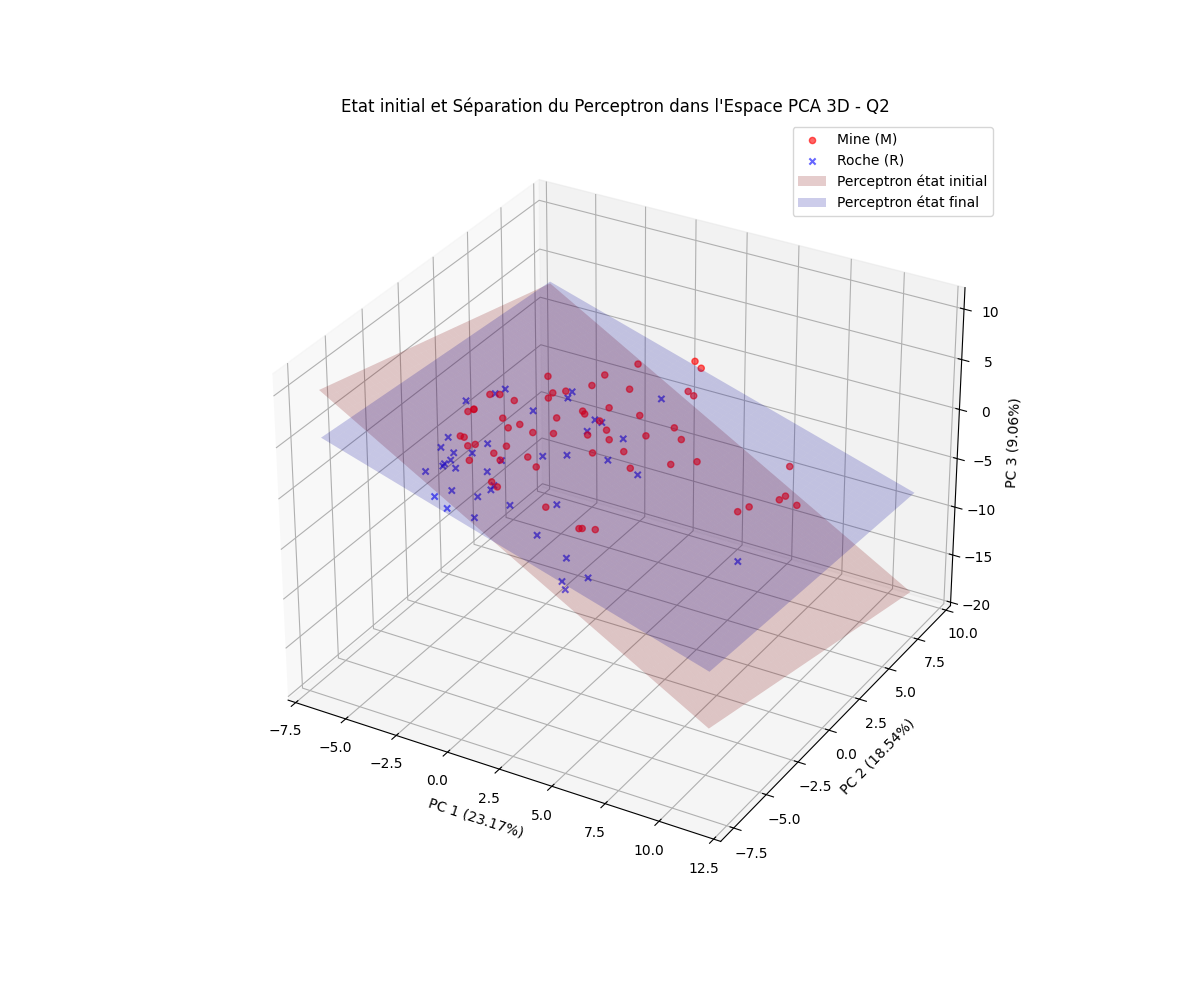
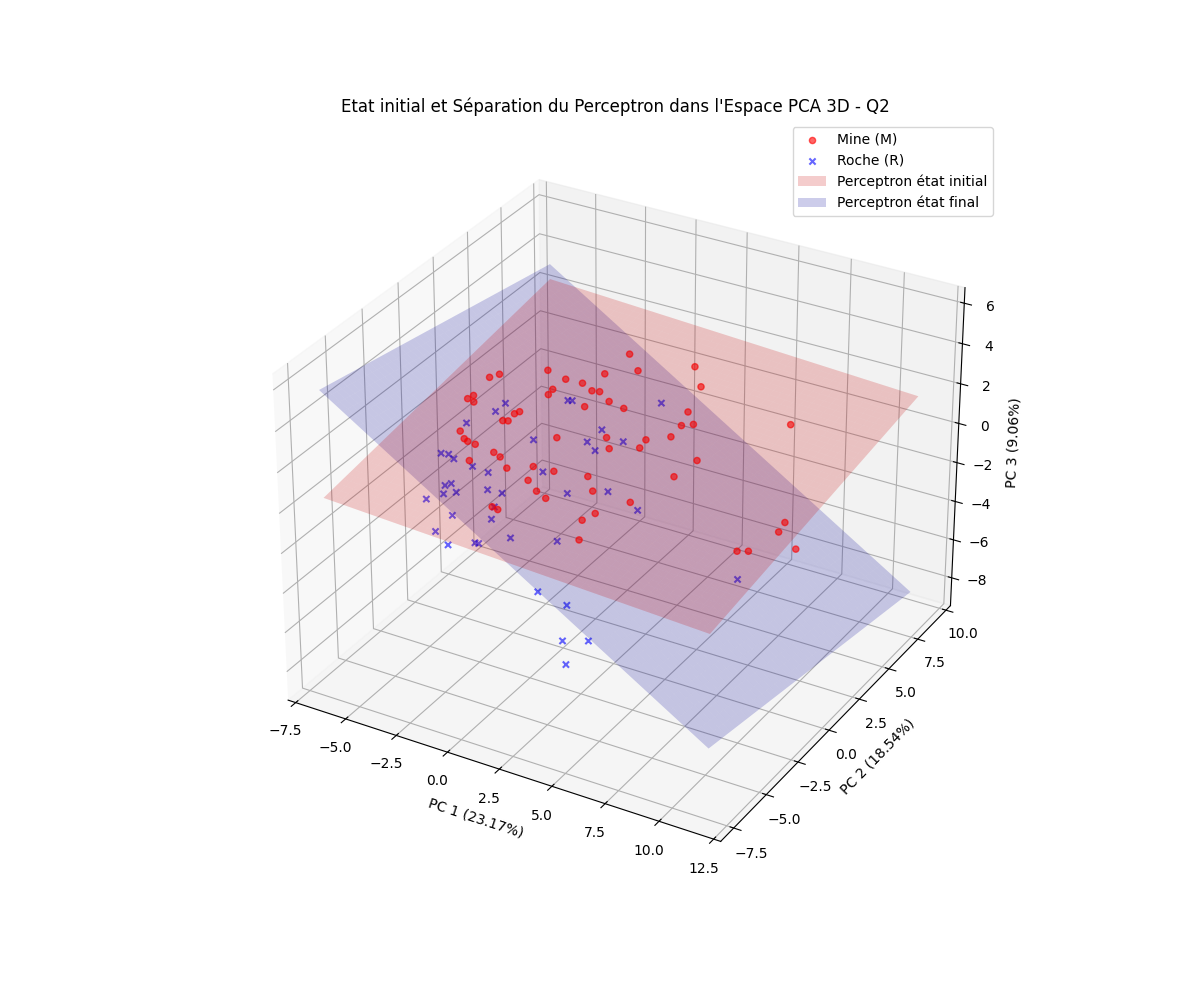
Choice of training algo from run_training_exo_1()

Changed region(s): [[0.2467, 0.248, 0.7708, 0.744], [0.8017, 0.496, 0.8325, 0.558], [0.8017, 0.403, 0.8325, 0.434]]

diff --git a/TP2/tp2.py b/TP2/tp2.py
@@ -191,6 +191,62 @@ def perceptron_online(w_vect, L_ens, eta, maxIter):
     #print("in perceptron online - return")
     return w_k, stop-1, err
 
+def perceptron_batch(w_vect, L_ens, eta, maxIter):
+    if isinstance(L_ens, pd.DataFrame):
+        print("[Avertissement] Conversion du DataFrame en Liste pour la fonction d'initialisation.")
+
+        # Le DataFrame est converti en une liste de [features, target]
+        L_ens_converted = []
+        for index, row in L_ens.iterrows():
+            L_ens_converted.append([row['Donnee'], row['Classe voulue']])
+        L_ens = L_ens_converted
+        #print("in perceptron online")  #print("in perceptron online")
+
+    w_k = copy.deepcopy(w_vect)
+    stop = 0
+
+    delta_w = np.zeros(len(w_vect))
+
+    err = []
+    err.append(error(L_ens, w_vect))
+
+    while stop < maxIter:     # boucle sur les époques
+        #print('\n'*2, '_'*20, '\n')
+        #print("stop =", stop)
+        nb_mal_classe = 0
+        err.append(error(L_ens, w_k))
+        delta_w = np.zeros(len(w_vect))
+
+        for k in range(len(L_ens)):   # boucle sur les exemples
+            x_k = L_ens[k][0]
+            t = L_ens[k][1]
+
+            # produit scalaire
+            w_k_scal_x_k = sum(w_k[i] * x_k[i] for i in range(len(x_k)))
+            y = 1 if w_k_scal_x_k > 0 else -1
+
+            #print("y = ", y)
+            #print("t = ", t)
+
+            if y != t:
+                for i in range(len(x_k)):
+                    delta_w[i] = delta_w[i] + eta * (t - y)*x_k[i]
+                nb_mal_classe += 1
+
+        # fin de l'époque : vérification arrêt
+        w_k += delta_w
+
+        if nb_mal_classe == 0:
+            #print("Convergence atteinte.")
+            stop += 1
+            break
+        else:
+            #print("nb_mal_classe : ", nb_mal_classe)
+            stop += 1
+
+    #print("in perceptron batch - return")
+    return w_k, stop-1, err
+
 def draw_curve(ax, list, label_text, color='black', xlabel='', ylabel='', linewidth=2):
     """
     Trace une courbe d'erreur (ou de performance) sur un objet Axes existant.
@@ -597,14 +653,14 @@ def pretraitement(test_df, train_df):
 
     return train_df_prepare, test_df_prepare
 
-def run_training_exo_1(data, train, test, train_prepare, test_prepare, question_tag, if_show=True):
+def run_training_exo_1(data, training_algo, train, test, train_prepare, test_prepare, question_tag, if_show=True):
         biais_range = [-1, 1]
         perceptron = f_init_rand(train, biais_range)
         
         #Entrainement
         eta = 0.1
         maxIter = 10000
-        trained_perceptron, _ ,training_errors = perceptron_online(perceptron, train_prepare, eta, maxIter) #La fonction retourne aussi le nombre d'itérations
+        trained_perceptron, _ ,training_errors = training_algo(perceptron, train_prepare, eta, maxIter) #La fonction retourne aussi le nombre d'itérations
         
         fig_2d, ax_2d = plt.subplots(figsize=(12, 10))
         draw_curve(ax_2d, training_errors, f"Erreur d'apprentissage - {question_tag}", color='red')
@@ -670,10 +726,13 @@ if __name__=="__main__":
     #PRETRAITEMENT
     train_df_prepare, test_df_prepare = pretraitement(test_df, train_df)
 
-    #ENTRAINTEMENT PARTIE I
+    #ENTRAINTEMENT
+    #L'algorithme online converge en moins d'itération que l'algorithme batch
+    training_algo = perceptron_online
     # Question 2_a
     question_tag_exo_2 = 'Q2'
-    trained_perceptron, training_error, generalisation_error, stabilites_paires, stabilites_list, = run_training_exo_1(data=data_df, 
+    trained_perceptron, training_error, generalisation_error, stabilites_paires, stabilites_list, = run_training_exo_1(data=data_df,
+                                                                                                                      training_algo=training_algo, 
                                                                                                                       train=train_df, 
                                                                                                                       test=test_df, 
                                                                                                                       train_prepare=train_df_prepare,
@@ -681,7 +740,8 @@ if __name__=="__main__":
                                                                                                                       question_tag=question_tag_exo_2)
     # Question 2_a
     question_tag_exo_3 = 'Q3'
-    trained_perceptron, training_error, generalisation_error, stabilites_paires, stabilites_list, = run_training_exo_1(data=data_df, 
+    trained_perceptron, training_error, generalisation_error, stabilites_paires, stabilites_list, = run_training_exo_1(data=data_df,
+                                                                                                                      training_algo=training_algo,  
                                                                                                                       train=test_df, 
                                                                                                                       test=train_df, 
                                                                                                                       train_prepare=test_df_prepare,
